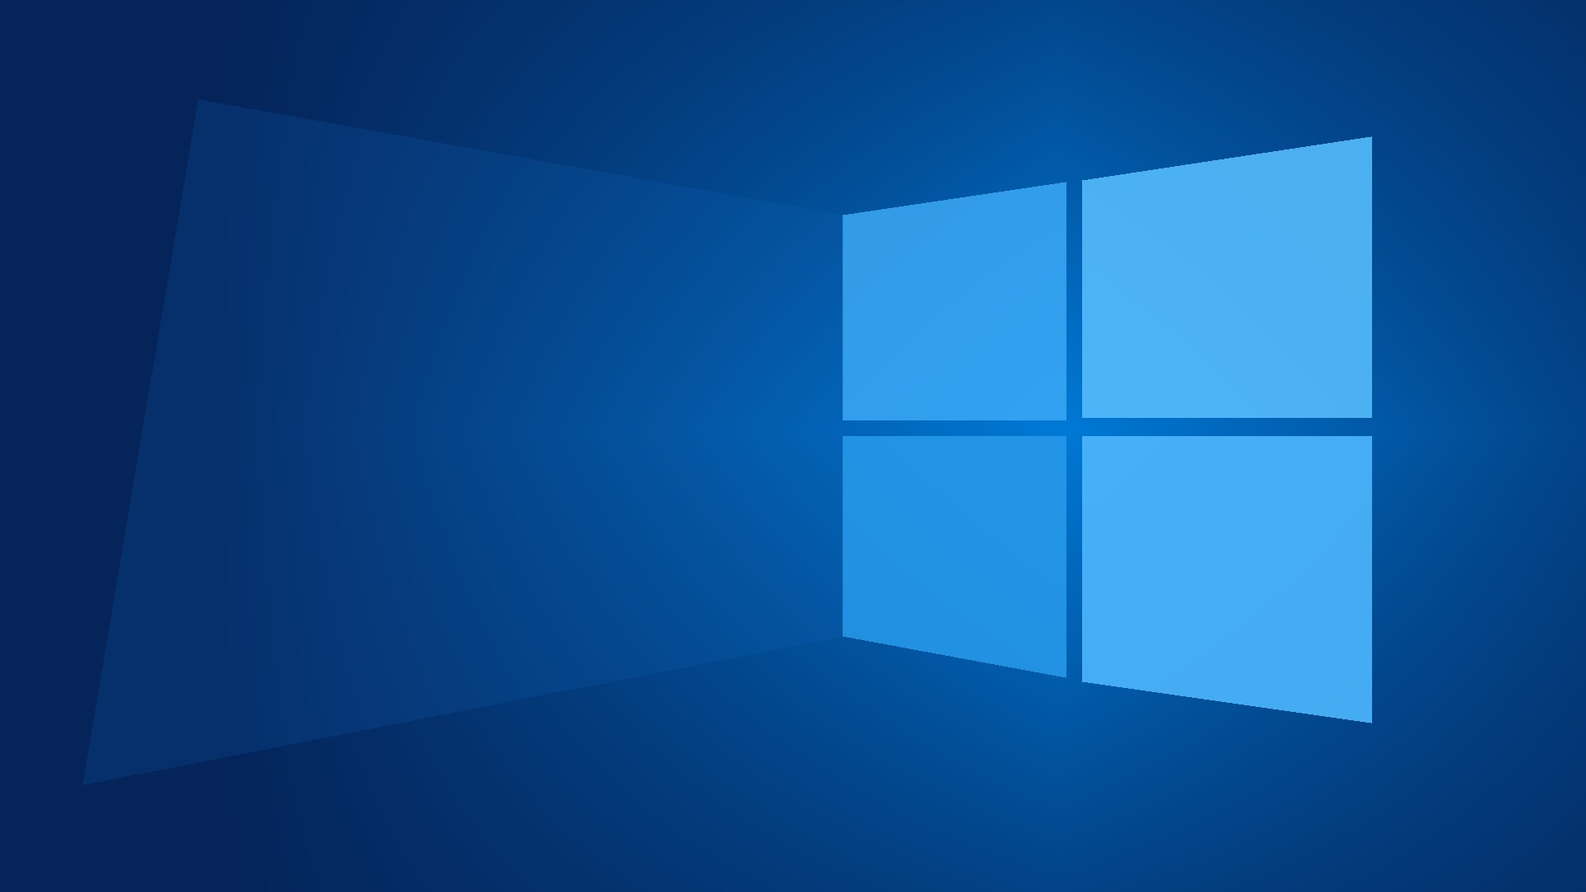
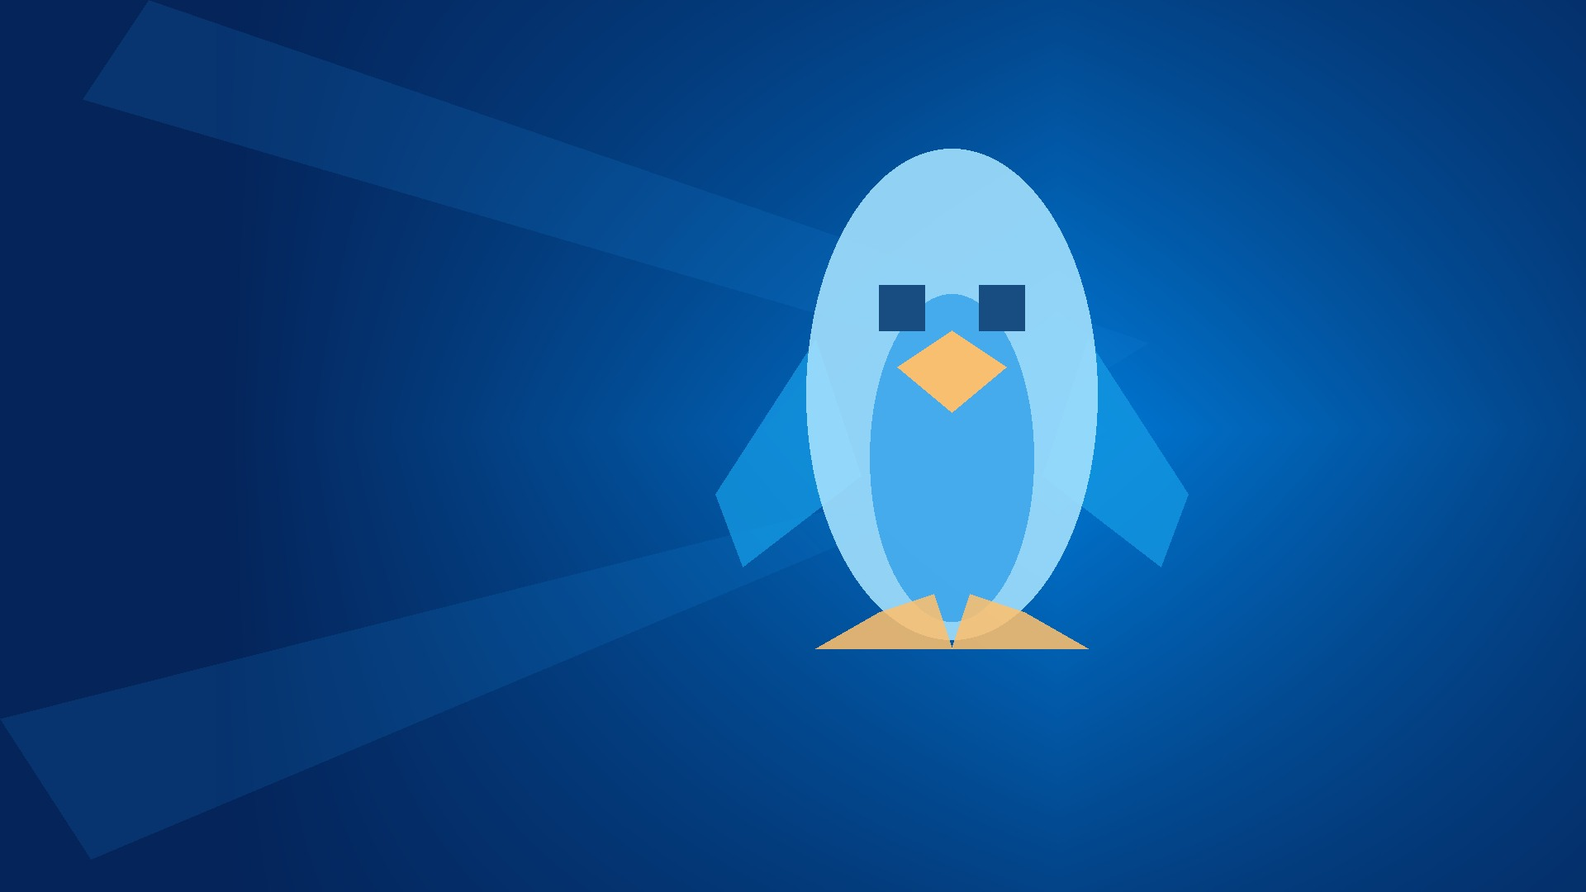
RiceHub 0.5 RC2: flat Linux penguin branding and focused rice roadmap

Changed region(s): [[0.4375, 0.1528, 0.875, 0.825]]

diff --git a/macrice/hub.py b/macrice/hub.py
@@ -1,8 +1,8 @@
 """RiceHub: a native, on-demand XFCE rice gallery and recovery workbench.
 
 No extra daemon, browser, compositor, root privileges or hidden profile writes.
-The working macOS implementation is shared with MacRice. The Windows 10
-concept is read-only until its real XFCE shell is implemented.
+The working macOS implementation is shared with MacRice. Windows 7 and
+Windows 10 also offer real, user-local XFCE/X11 appearance profiles.
 """
 
 from __future__ import annotations
@@ -15,7 +15,7 @@ from .hub_art import aspect_fill
 from .hub_catalog import FAMILIES, FAMILY_BY_KEY, recent_backups, search_families
 
 
-HUB_VERSION = "0.5.0rc1"
+HUB_VERSION = "0.5.0rc2"
 
 # A restrained native palette. All GTK CSS colors and font choices live here.
 TOKENS = {
@@ -284,7 +284,7 @@ def run() -> int:
             self.prototype_button = action("Explore prototype", lambda _: self._show_prototype())
             self.prototype_button.set_no_show_all(True)
             controls.pack_start(self.prototype_button, False, False, 0)
-            self.future_note = label("Coming soon · No installation action is available yet.", "hub-soon")
+            self.future_note = label("Concept preview only — no settings are changed.", "hub-soon")
             self.future_note.set_no_show_all(True)
             body.pack_start(self.future_note, False, False, 0)
 
@@ -295,12 +295,6 @@ def run() -> int:
             self.search.get_accessible().set_name("Search desktop styles")
             self.search.connect("search-changed", self._filter_families)
             finder.pack_start(self.search, True, True, 0)
-            self.availability = Gtk.ComboBoxText()
-            for key, name in (("all", "All rices"), ("available", "Available"), ("soon", "Coming soon")):
-                self.availability.append(key, name)
-            self.availability.set_active_id("all")
-            self.availability.connect("changed", self._filter_families)
-            finder.pack_start(self.availability, False, False, 0)
 
             self.gallery = Gtk.FlowBox()
             self.gallery.set_selection_mode(Gtk.SelectionMode.NONE)
@@ -434,19 +428,21 @@ def run() -> int:
             self._refresh_backups()
 
         def _build_roadmap(self):
-            body = self._page("roadmap", "What comes next", "A transparent roadmap for complete XFCE rices and previews.")
-            for family in FAMILIES[1:]:
+            body = self._page("roadmap", "Quality roadmap",
+                              "Polishing the existing rices before planning another desktop family.")
+            milestones = (
+                ("Windows 10", "Release candidate", "Verify the flat penguin shell, window list, tray, panel coexistence and recovery on actual Mint XFCE hardware."),
+                ("Windows 7", "Release candidate", "Check Aero glass, compositor differences, SNI icons and keyboard navigation on real X11 systems."),
+                ("All rices", "Acceptance pending", "Validate multi-monitor layouts, HiDPI, restore after login, idle resource use and guided updates."),
+            )
+            for title, status, detail in milestones:
                 panel = cls(vertical(6), "hub-card")
                 row = horizontal(10)
-                row.pack_start(label(family.title, "hub-section"), True, True, 0)
-                row.pack_start(label("Prototype preview" if family.prototype else "Coming soon", "hub-soon"),
-                               False, False, 0)
+                row.pack_start(label(title, "hub-section"), True, True, 0)
+                row.pack_start(label(status, "hub-soon"), False, False, 0)
                 panel.pack_start(row, False, False, 0)
-                panel.pack_start(label(family.description, "hub-body", True), False, False, 0)
-                panel.pack_start(label("Planned: " + ", ".join(family.features), "hub-hint", True), False, False, 0)
+                panel.pack_start(label(detail, "hub-body", True), False, False, 0)
                 body.pack_start(panel, False, False, 0)
-            body.pack_start(label("Future work includes a shared XFCE panel profile engine, verified switching and reversible installation.",
-                                  "hub-body", True), False, False, 0)
 
         def _switch_page(self, key):
             self._active_page = key
@@ -485,7 +481,7 @@ def run() -> int:
                 "Aero is installable; its separate Start preview changes nothing."
                 if key == "windows7" else
                 "Windows 10 is installable; this separate concept preview changes nothing."
-                if key == "windows10" else "Coming soon · No installation action is available yet.")
+                if key == "windows10" else "This concept preview changes nothing.")
             self.future_note.set_visible(family.prototype or not family.available)
             if family.available:
                 self._rebuilding_picker = True
@@ -540,8 +536,7 @@ def run() -> int:
             self._preview_rendered = key
 
         def _filter_families(self, *_args):
-            shown = {family.key for family in search_families(
-                self.search.get_text(), self.availability.get_active_id() or "all")}
+            shown = {family.key for family in search_families(self.search.get_text())}
             for key, button in self._family_buttons.items():
                 button.get_parent().set_visible(key in shown)
             self.empty.set_visible(not shown)

diff --git a/tests/test_ten.py b/tests/test_ten.py
@@ -30,7 +30,11 @@ class TenTests(unittest.TestCase):
             for button in ("close", "maximize", "hide"):
                 for state in ("active", "inactive", "prelight", "pressed"):
                     self.assertTrue((chrome / f"{button}-{state}.png").is_file())
-        self.assertTrue((root / "assets/icons/RiceHub-Ten/scalable/apps/start-here.svg").is_file())
+        mark = (root / "assets/ten-start.svg").read_text(encoding="utf-8")
+        self.assertIn("RiceHub Ten Penguin", mark)
+        self.assertNotIn("M2 4 12", mark)
+        self.assertEqual(mark, (root / "assets/icons/RiceHub-Ten-Penguin/scalable/apps/start-here.svg")
+                         .read_text(encoding="utf-8"))
         self.assertIn(b"ten-tile", CSS)
 
     def test_preflight_is_read_only(self):
@@ -60,7 +64,8 @@ class TenTests(unittest.TestCase):
             manifest = json.loads((ten_backup / "manifest.json").read_text())
             self.assertEqual(manifest["schema"], 4)
             self.assertTrue((root / "data/themes/RiceHub-Ten-Dark/gtk-3.0/gtk.css").is_file())
-            self.assertTrue((root / "data/icons/RiceHub-Ten/index.theme").is_file())
+            self.assertTrue((root / "data/icons/RiceHub-Ten-Penguin/index.theme").is_file())
+            self.assertEqual(fake.get("xfconf", "xsettings", "/Net/IconThemeName"), ten.ICON_THEME)
             self.assertTrue((root / "data/plank/themes/RiceHub-Ten-Flat/dock.theme").is_file())
             restore(backend=fake, data_root=root / "data", config_root=root / "config")
             self.assertIsNotNone(read_aero(root / "config"))
@@ -93,6 +98,21 @@ class TenTests(unittest.TestCase):
                 apply("ten-dark", backend=fake, data_root=root / "data", config_root=root / "config")
             self.assertEqual(fake.calls, [])
 
+    def test_upgrade_keeps_user_customized_legacy_icon_theme(self):
+        """RC1 can remain installed without blocking the new penguin artwork."""
+        with tempfile.TemporaryDirectory() as tmp:
+            root = Path(tmp)
+            old_theme = root / "data/icons/RiceHub-Ten"
+            old_theme.mkdir(parents=True)
+            (old_theme / "index.theme").write_text("user-edited legacy icons", encoding="utf-8")
+            fake = FakeBackend()
+            setup_apps(root / "config")
+            backup = apply("ten-dark", backend=fake, data_root=root / "data", config_root=root / "config")
+            self.assertEqual((old_theme / "index.theme").read_text(encoding="utf-8"),
+                             "user-edited legacy icons")
+            self.assertTrue((root / "data/icons" / ten.ICON_THEME / "index.theme").is_file())
+            restore(backend=fake, data_root=root / "data", config_root=root / "config")
+            self.assertTrue((backup / "restored").is_file())
     def test_pins_do_not_cross_profiles(self):
         with tempfile.TemporaryDirectory() as tmp:
             with mock.patch.dict("os.environ", {"XDG_CONFIG_HOME": tmp}):

diff --git a/scripts/build_ten_assets.py b/scripts/build_ten_assets.py
@@ -128,10 +128,10 @@ ART = {
 
 
 def icons() -> None:
-    root = ROOT / "assets/icons/RiceHub-Ten"
+    root = ROOT / "assets/icons/RiceHub-Ten-Penguin"
     root.mkdir(parents=True, exist_ok=True)
     (root / "index.theme").write_text(
-        "[Icon Theme]\nName=RiceHub Ten\nComment=Original flat icons, inherited system app coverage\n"
+        "[Icon Theme]\nName=RiceHub Ten Penguin\nComment=Original flat icons with Linux penguin Start mark\n"
         "Inherits=Adwaita,hicolor\nDirectories=scalable/apps,scalable/places\n"
         "[scalable/apps]\nSize=48\nType=Scalable\nMinSize=16\nMaxSize=128\n"
         "[scalable/places]\nSize=48\nType=Scalable\nMinSize=16\nMaxSize=128\n",
@@ -158,12 +158,23 @@ def wallpapers() -> None:
                 factor = max(0, 1 - abs(x - 1280) / 1020) * max(0, 1 - abs(y - 520) / 880)
                 pix[x, y] = tuple(min(255, int(base[i] + (glow[i] - base[i]) * factor)) for i in range(3))
         draw = ImageDraw.Draw(image, "RGBA")
-        # Four original luminous panes, with a slight perspective taper and light rays.
-        draw.polygon([(1020, 260), (1290, 220), (1290, 508), (1020, 508)], fill=(59, 169, 246, 215))
-        draw.polygon([(1310, 218), (1660, 165), (1660, 505), (1310, 505)], fill=(86, 189, 253, 225))
-        draw.polygon([(1020, 528), (1290, 528), (1290, 820), (1020, 770)], fill=(39, 154, 235, 220))
-        draw.polygon([(1310, 528), (1660, 528), (1660, 875), (1310, 825)], fill=(75, 180, 251, 235))
-        draw.polygon([(1020, 260), (1020, 770), (100, 950), (240, 120)], fill=(12, 99, 187, 48))
+        # The same flat penguin geometry as the taskbar, scaled into a soft
+        # spotlight. No Microsoft/Windows mark is included in the artwork.
+        draw.polygon([(1300, 470), (100, 120), (180, 0), (1390, 415)], fill=(21, 128, 212, 45))
+        draw.polygon([(1300, 540), (110, 1040), (0, 870), (1390, 520)], fill=(16, 142, 229, 37))
+        def position(x, y):
+            return 800 + x * 11, 125 + y * 11
+        def polygon(points, rgba):
+            draw.polygon([position(x, y) for x, y in points], fill=rgba)
+        polygon([(17, 26), (6, 43), (9, 51), (22, 41)], (20, 153, 227, 195))
+        polygon([(47, 26), (58, 43), (55, 51), (42, 41)], (20, 153, 227, 195))
+        draw.ellipse((*position(16, 5), *position(48, 59)), fill=(164, 226, 255, 225))
+        draw.ellipse((*position(23, 21), *position(41, 57)), fill=(53, 162, 234, 210))
+        draw.rectangle((*position(24, 20), *position(29, 25)), fill=(24, 77, 130, 255))
+        draw.rectangle((*position(35, 20), *position(40, 25)), fill=(24, 77, 130, 255))
+        polygon([(26, 29), (32, 25), (38, 29), (32, 34)], (255, 192, 108, 245))
+        polygon([(24, 56), (17, 60), (32, 60), (30, 54)], (255, 192, 108, 220))
+        polygon([(40, 56), (47, 60), (32, 60), (34, 54)], (255, 192, 108, 220))
         image.save(root / name, "JPEG", quality=91, optimize=True)
 
 

diff --git a/tests/test_hub.py b/tests/test_hub.py
@@ -27,8 +27,9 @@ class HubCatalogTests(unittest.TestCase):
         self.assertTrue(FAMILY_BY_KEY["windows10"].available)
 
     def test_search_availability_and_case_insensitive_queries(self):
-        self.assertEqual([item.key for item in search_families("windows", "soon")],
-                         ["windows11"])
+        self.assertEqual(search_families("windows", "soon"), ())
+        self.assertNotIn("windows11", FAMILY_BY_KEY)
+        self.assertEqual({family.key for family in FAMILIES}, {"macos", "windows10", "windows7"})
         self.assertEqual([item.key for item in search_families("AURORA", "available")], ["macos"])
         self.assertEqual([item.key for item in search_families("windows", "available")], ["windows10", "windows7"])
         self.assertEqual(search_families("not a real rice"), ())
@@ -49,7 +50,7 @@ class HubCatalogTests(unittest.TestCase):
             (restored / "restored").write_text("already restored")
             unknown = root / "20261102T105720123456Z"
             unknown.mkdir()
-            (unknown / "manifest.json").write_text(json.dumps({"style": "windows11"}))
+            (unknown / "manifest.json").write_text(json.dumps({"style": "retired-style"}))
             invalid = root / "20261102T105820123456Z"
             invalid.mkdir()
             (invalid / "manifest.json").write_text("invalid json")
@@ -73,7 +74,7 @@ class HubStylingTests(unittest.TestCase):
             fake.assert_called_once_with()
 
     def test_styling_is_native_and_does_not_require_web_stack(self):
-        self.assertEqual(HUB_VERSION, "0.5.0rc1")
+        self.assertEqual(HUB_VERSION, "0.5.0rc2")
         self.assertIn(b"hub-card", CSS)
         self.assertNotIn(b"javascript", CSS.lower())
         try:

diff --git a/macrice/windows10_proto.py b/macrice/windows10_proto.py
@@ -100,6 +100,17 @@ def _symbol(Gtk, name, size):
     return Gtk.Image.new_from_icon_name(name, size)
 
 
+def _ten_penguin(Gtk, size=26):
+    """Render the same original mark as the live shell at small UI sizes."""
+    from gi.repository import GdkPixbuf
+
+    from .installer import project_root
+
+    pixbuf = GdkPixbuf.Pixbuf.new_from_file_at_scale(
+        str(project_root() / "assets/ten-start.svg"), size, size, True)
+    return Gtk.Image.new_from_pixbuf(pixbuf)
+
+
 def _box(Gtk, orientation, spacing=0):
     return Gtk.Box(orientation=orientation, spacing=spacing)
 
@@ -117,7 +128,7 @@ def teaser(Gtk):
     card.pack_start(note, False, False, 0)
     card.pack_start(Gtk.Box(), True, True, 0)
     bar = _style(_box(Gtk, Gtk.Orientation.HORIZONTAL, 12), "w10-taskbar")
-    bar.pack_start(_label(Gtk, "⊞", "w10-time"), False, False, 7)
+    bar.pack_start(_ten_penguin(Gtk, 17), False, False, 7)
     bar.pack_start(_label(Gtk, "Search    ◈    Files    Browser", "w10-time"), False, False, 0)
     bar.pack_start(Gtk.Box(), True, True, 0)
     bar.pack_start(_label(Gtk, "12:42  ▢", "w10-time"), False, False, 7)
@@ -167,7 +178,8 @@ def show_dialog(parent, Gtk, Gdk, GLib, screenshot_paths=None):
 
     bar = _style(_box(Gtk, Gtk.Orientation.HORIZONTAL, 2), "w10-taskbar")
     background.pack_start(bar, False, False, 0)
-    start = _style(Gtk.Button(label="⊞"), "w10-start")
+    start = _style(Gtk.Button(), "w10-start")
+    start.set_image(_ten_penguin(Gtk))
     start.get_accessible().set_name("Toggle Start preview")
     bar.pack_start(start, False, False, 0)
     search_button = _style(Gtk.Button(label="⌕  Type here to search"), "w10-search-button")

diff --git a/macrice/aero_shell.py b/macrice/aero_shell.py
@@ -247,7 +247,7 @@ def run(argv: list[str] | None = None, *, profile: str = "aero") -> int:
 
         def _capture_menu(self):
             try:
-                self._capture_screen("windows10-live-start-0.5.0rc1.png")
+                self._capture_screen("windows10-live-start-0.5.0rc2.png")
                 self._hide_menu()
                 self._toggle_actions()
                 assert self.actions.get_visible()
@@ -261,7 +261,7 @@ def run(argv: list[str] | None = None, *, profile: str = "aero") -> int:
 
         def _capture_actions(self):
             try:
-                self._capture_screen("windows10-live-actions-0.5.0rc1.png")
+                self._capture_screen("windows10-live-actions-0.5.0rc2.png")
             except Exception:
                 import traceback
                 traceback.print_exc()

diff --git a/macrice/hub_catalog.py b/macrice/hub_catalog.py
@@ -39,11 +39,6 @@ FAMILIES: tuple[RiceFamily, ...] = (
         ("Live Start and taskbar", "Dark/light GTK & XFWM", "Persistent pins & Action Center", "Reversible installation"), True,
     ),
     RiceFamily(
-        "windows11", "Windows 11", "Centered simplicity",
-        "A centered taskbar, modern launcher and compact quick settings built around XFCE.",
-        False, (), ("Centered taskbar", "Start layout", "Quick settings", "Snap-friendly desktop"),
-    ),
-    RiceFamily(
         "windows7", "Windows 7", "Aero nostalgia",
         "Aero Meadow and Aero Cascade: original glass window chrome, Linux penguin, icons, Start menu and taskbar.",
         True, ("aero-meadow", "aero-cascade"),

diff --git a/macrice/ten.py b/macrice/ten.py
@@ -15,9 +15,11 @@ from .environment import bin_home
 
 
 THEMES = ("RiceHub-Ten-Dark", "RiceHub-Ten-Light")
-ICON_THEME = "RiceHub-Ten"
+# A new asset name permits safe upgrades from 0.5 RC1: preflight will never
+# overwrite the previous, potentially user-customized RiceHub-Ten icon tree.
+ICON_THEME = "RiceHub-Ten-Penguin"
 BUNDLES = tuple((f"assets/themes/{theme}", f"themes/{theme}") for theme in THEMES) + (
-    ("assets/icons/RiceHub-Ten", "icons/RiceHub-Ten"),
+    ("assets/icons/RiceHub-Ten-Penguin", "icons/RiceHub-Ten-Penguin"),
 )
 MARKER = "# RiceHub Windows 10 autostart (managed by RiceHub)"
 

diff --git a/screenshots/capture_windows10.py b/screenshots/capture_windows10.py
@@ -23,6 +23,6 @@ if __name__ == "__main__":
     if not Gtk.init_check()[0]:
         raise SystemExit("An X11 GTK display is required for screenshot capture")
     show_dialog(None, Gtk, Gdk, GLib, (
-        ROOT / "screenshots/windows10-start-preview-0.4.0rc1.png",
-        ROOT / "screenshots/windows10-action-center-preview-0.4.0rc1.png",
+        ROOT / "screenshots/windows10-start-preview-0.5.0rc2.png",
+        ROOT / "screenshots/windows10-action-center-preview-0.5.0rc2.png",
     ))

diff --git a/screenshots/capture_windows10_hub.py b/screenshots/capture_windows10_hub.py
@@ -33,7 +33,7 @@ def capture():
         pixels = Gdk.pixbuf_get_from_window(window.get_window(), 0, 0, *window.get_size())
         if pixels is None:
             raise RuntimeError("Unable to capture the RiceHub gallery")
-        pixels.savev(str(ROOT / "screenshots/ricehub-windows10-gallery-0.5.0rc1.png"), "png", [], [])
+        pixels.savev(str(ROOT / "screenshots/ricehub-windows10-gallery-0.5.0rc2.png"), "png", [], [])
         app.quit()
         return False
 

diff --git a/macrice/__init__.py b/macrice/__init__.py
@@ -1,3 +1,3 @@
 """Small native integration layer for the MacRice XFCE desktop."""
 
-__version__ = "0.5.0rc1"
+__version__ = "0.5.0rc2"

diff --git a/README.md b/README.md
@@ -4,11 +4,11 @@
 
 RiceHub is a small, native Linux app for turning an ordinary XFCE desktop into something personal. It started with a love of macOS's clean interface and XFCE's speed. The goal is bigger now: one friendly place to discover, preview, apply and eventually share complete desktop styles — without swapping out your desktop environment.
 
-**macOS, Windows 7 and Windows 10-inspired rices are installable today.** Windows 10 now ships as two reversible XFCE/X11 styles with original GTK/XFWM artwork and a live GTK taskbar, Start menu and Action Center. Windows 11 remains **Coming soon**. RiceHub `0.5.0 RC1` is a feature-complete Windows 10 release candidate; Linux Mint hardware acceptance is still pending.
+**macOS, Windows 7 and Windows 10-inspired rices are installable today.** Windows 10 ships as two reversible XFCE/X11 styles with original GTK/XFWM artwork, a flat Linux-penguin Start icon and a live GTK taskbar, Start menu and Action Center. RiceHub `0.5.0 RC2` is a feature-complete Windows 10 release candidate; Linux Mint hardware acceptance is still pending. No additional OS rice is currently scheduled.
 
 ## Meet RiceHub
 
-![RiceHub gallery offering installable Windows 10 Midnight and Blue styles](screenshots/ricehub-windows10-gallery-0.5.0rc1.png)
+![RiceHub gallery offering installable Windows 10 Midnight and Blue styles with a Linux-penguin taskbar](screenshots/ricehub-windows10-gallery-0.5.0rc2.png)
 
 *Actual GTK3 RiceHub window in virtual X11. Windows 10 can now be checked and applied, while its older concept dialog remains available separately.*
 
@@ -46,11 +46,11 @@ Without Wnck, the Aero taskbar still opens with pinned apps, Start search and a 
 
 | Live Start menu, installed apps and blue pinned tiles | Action Center with XFCE settings shortcuts |
 | --- | --- |
-| ![Real GTK Windows 10 rice with running taskbar, original wallpaper and actual installed app list](screenshots/windows10-live-start-0.5.0rc1.png) | ![Real GTK Windows 10 Action Center quick settings over original desktop wallpaper](screenshots/windows10-live-actions-0.5.0rc1.png) |
+| ![Real GTK Windows 10 rice with blue Linux penguin Start icon, original wallpaper and actual installed app list](screenshots/windows10-live-start-0.5.0rc2.png) | ![Real GTK Windows 10 Action Center quick settings and Linux penguin taskbar](screenshots/windows10-live-actions-0.5.0rc2.png) |
 
 *Actual running RiceHub Ten GTK shell windows and original wallpaper in an isolated virtual X11 desktop fixture. Installed applications are listed from Gio, not invented examples. No physical Linux Mint system was changed. System tray and real window integration require the corresponding desktop services.*
 
-Select **Windows 10** in RiceHub, choose **Midnight** or **Blue**, use **Check requirements**, then **Apply rice**. This installs original dark/light themes, icons and wallpaper, starts the shared live taskbar, and records a reversible snapshot. Application search and pinned tiles launch your real installed apps; Wnck tracks real windows, the SNI tray accepts supported icons, and Action Center opens existing XFCE settings tools. The separate **Explore Windows 10 preview** dialog is retained as a harmless early concept. See [the implementation, screenshots and acceptance checklist](WINDOWS10.md).
+Select **Windows 10** in RiceHub, choose **Midnight** or **Blue**, use **Check requirements**, then **Apply rice**. This installs original dark/light themes, Linux-penguin icons and wallpaper, starts the shared live taskbar, and records a reversible snapshot. Application search and pinned tiles launch your real installed apps; Wnck tracks real windows, the SNI tray accepts supported icons, and Action Center opens existing XFCE settings tools. The separate **Explore Windows 10 preview** dialog is retained as a harmless early concept. See [the implementation, screenshots and acceptance checklist](WINDOWS10.md).
 
 ### macOS rice with Plank
 
@@ -78,7 +78,6 @@ The hub itself is written with Python and GTK3. It opens when you need it and do
 | --- | --- | --- |
 | macOS-inspired | Aurora Night, Aurora Day, Liquid Glass Night, Liquid Glass Day, Classic Aqua | **Available (preview)** |
 | Windows 10-inspired | Windows 10 Midnight, Windows 10 Blue | **Installable release candidate** |
-| Windows 11-inspired | Centered taskbar and launcher | **Coming soon** |
 | Windows 7-inspired | Aero Meadow, Aero Cascade | **Aero release candidate** |
 
 The working macOS rice brings together [MacMenu](components/macmenu/), [Control Center](components/control-center/), [MacBar](components/macbar/), Plank, Thunar, WhiteSur-based GTK/window themes, icons and Aurora wallpapers. All three bundled apps keep their own tested installers. Plank remains a system package and your pinned dock items are preserved.
@@ -139,11 +138,11 @@ For your XFCE shortcuts, use `macmenu --toggle` and `macos-control-center-toggle
 - **Recoverable changes.** Desktop snapshots live outside the replaceable app bundle, under `~/.local/share/macrice-state/`.
 - **No takeover.** The XFCE panel is not replaced automatically. Plank launchers and layout are not overwritten during installation.
 - **No extra background monitor.** The hub runs on demand. CPU/memory sampling happens only when you request it.
-- **Honest previews.** Windows 7 and Windows 10 offer installable release-candidate rices plus optional non-installing concept dialogs. Windows 11 is a placeholder. Some graphical effects depend on your existing X11 compositor.
+- **Honest previews.** Windows 7 and Windows 10 offer installable release-candidate rices plus optional non-installing concept dialogs. Some graphical effects depend on your existing X11 compositor.
 
 ## Where this is going
 
-The first goal is a dependable macOS rice and a useful central manager. The Windows 7 Aero and Windows 10 Ten candidates share the safe apply/restore engine and event-driven taskbar backends. Physical Mint XFCE testing, panel coexistence checks and HiDPI work remain before a stable 1.0; Windows 11 is planned. See the [RiceHub product roadmap](RICEHUB.md) and [MacRice engine roadmap](ROADMAP.md).
+The first goal is a dependable macOS rice and a useful central manager. The Windows 7 Aero and Windows 10 Ten candidates share the safe apply/restore engine and event-driven taskbar backends. Physical Mint XFCE testing, panel coexistence checks and HiDPI work remain before a stable 1.0. No new OS family is planned at the moment. See the [RiceHub product roadmap](RICEHUB.md) and [MacRice engine roadmap](ROADMAP.md).
 
 The existing MacMenu, Control Center and MacBar repositories have not been deleted. Their code stays independently testable while RiceHub becomes the main home for complete rices.
 
